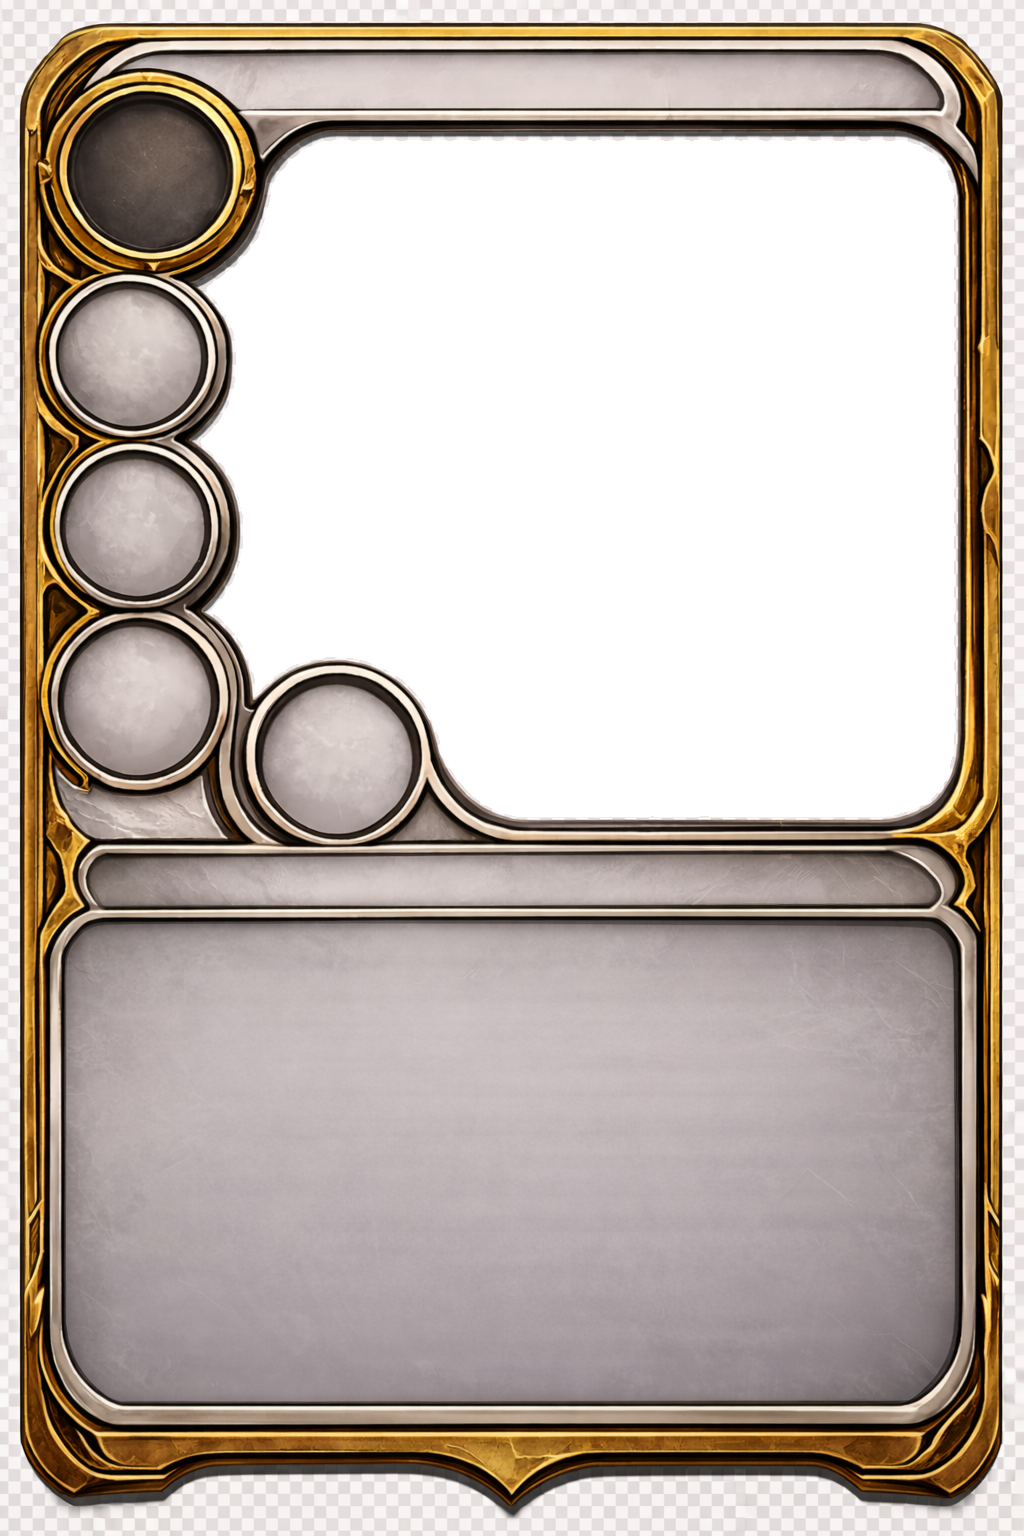
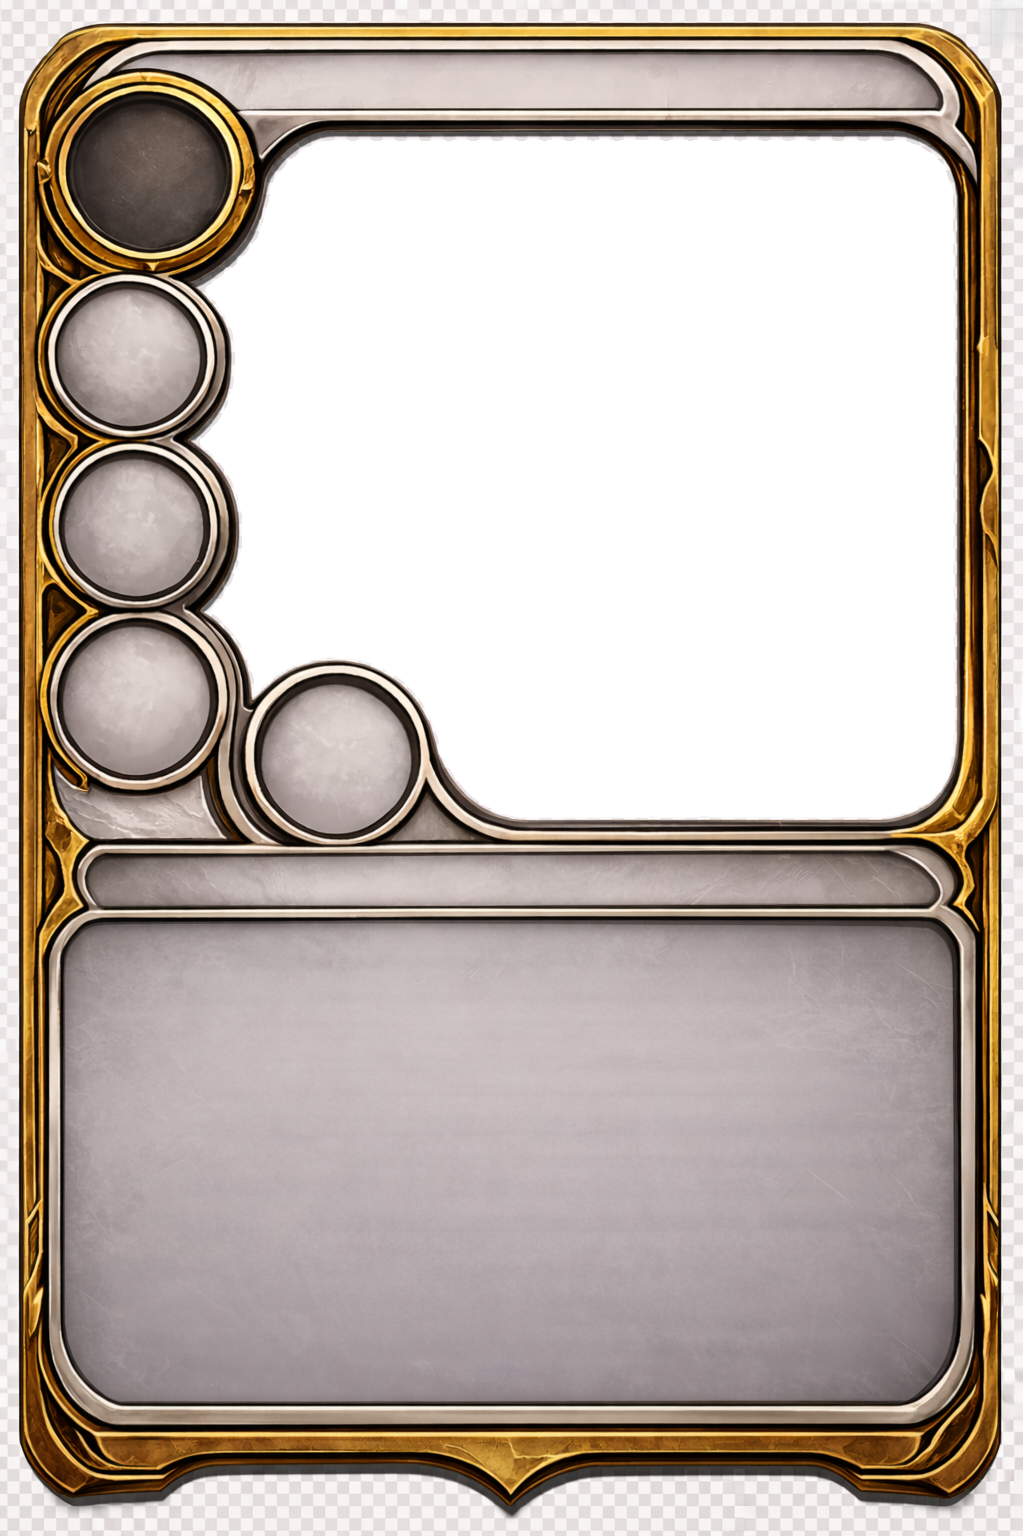
,jkhkl

diff --git a/tools/card-generator/generate.py b/tools/card-generator/generate.py
@@ -272,8 +272,8 @@ def compose_card(
     # ── Layout efectivo para este frame ──────────────────────────────────────
     layout = get_layout(str(frame_name))
 
-    # ── Canvas base (fondo blanco) ────────────────────────────────────────────
-    canvas = Image.new("RGBA", (fw, fh), (255, 255, 255, 255))
+    # ── Canvas base transparente para conservar alpha en el output ───────────
+    canvas = Image.new("RGBA", (fw, fh), (0, 0, 0, 0))
 
     # ── Arte ─────────────────────────────────────────────────────────────────
     art_path = find_art(card, art_override)
@@ -301,7 +301,8 @@ def compose_card(
 
     # ── Guardar ──────────────────────────────────────────────────────────────
     out_path = out_dir / f"{code}.webp"
-    canvas.convert("RGB").save(str(out_path), "WEBP", quality=92)
+    # Guardar en RGBA para evitar bordes/blancos de matte en el juego.
+    canvas.save(str(out_path), "WEBP", quality=92)
     print(f"  ✓ {code}.webp  →  {out_path}")
     return out_path
 